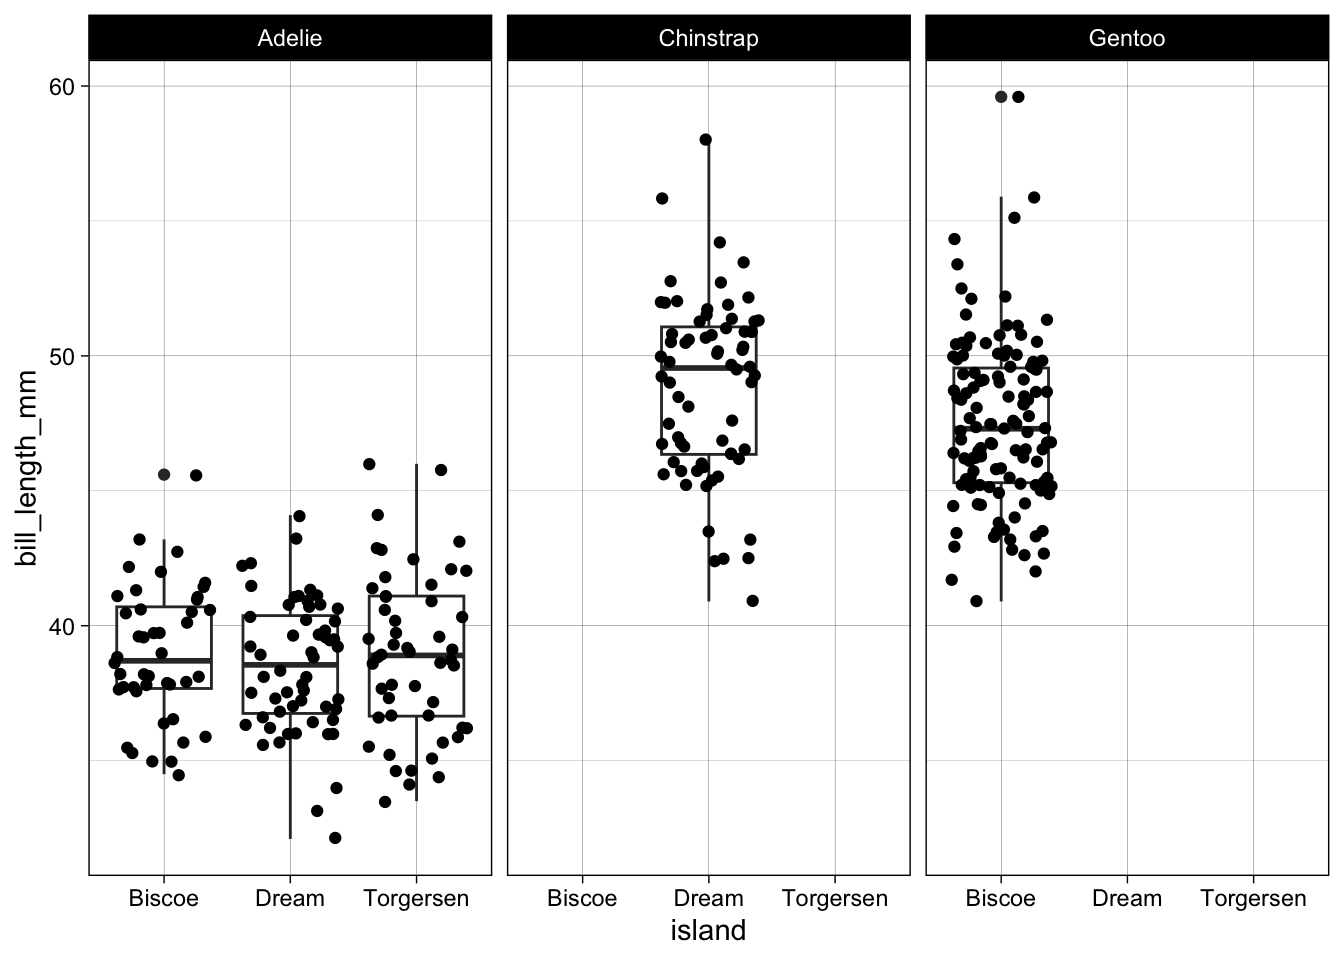
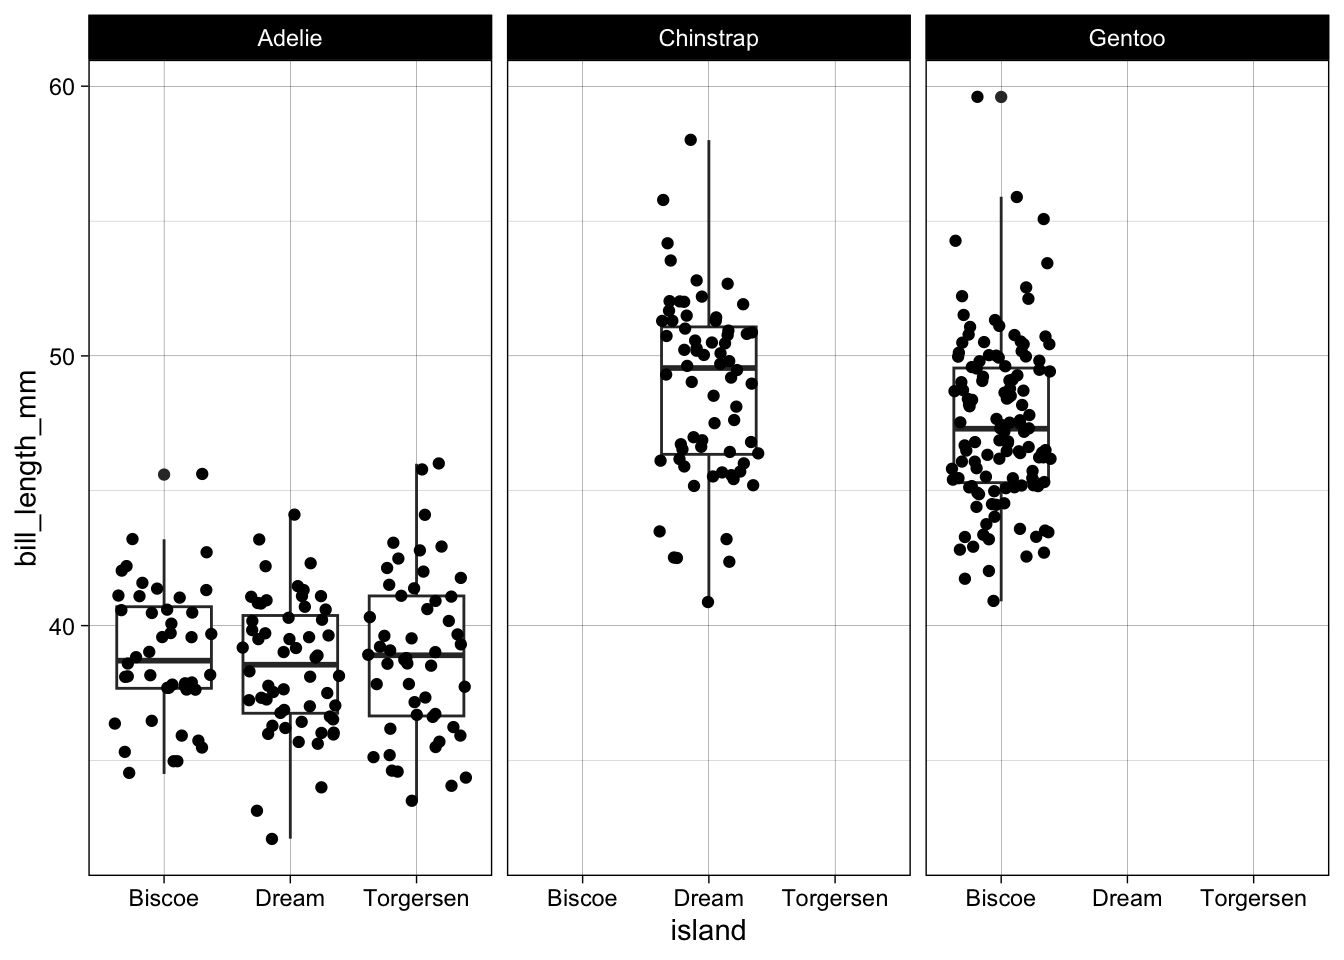
Change to PP.qmd

diff --git a/docs/PP.html b/docs/PP.html
@@ -128,7 +128,7 @@ pre > code.sourceCode > span > a:first-child::before { text-decoration: underlin
           <div class="collapse navbar-collapse" id="navbarCollapse">
             <ul class="navbar-nav navbar-nav-scroll me-auto">
   <li class="nav-item">
-    <a class="nav-link" href="./index.html"> 
+    <a class="nav-link active" href="./PP.html" aria-current="page"> 
 <span class="menu-text">Home</span></a>
   </li>  
   <li class="nav-item">

diff --git a/docs/index.html b/docs/index.html
@@ -93,7 +93,7 @@ ul.task-list li input[type="checkbox"] {
           <div class="collapse navbar-collapse" id="navbarCollapse">
             <ul class="navbar-nav navbar-nav-scroll me-auto">
   <li class="nav-item">
-    <a class="nav-link active" href="./index.html" aria-current="page"> 
+    <a class="nav-link" href="./PP.html"> 
 <span class="menu-text">Home</span></a>
   </li>  
   <li class="nav-item">

diff --git a/docs/about.html b/docs/about.html
@@ -93,7 +93,7 @@ ul.task-list li input[type="checkbox"] {
           <div class="collapse navbar-collapse" id="navbarCollapse">
             <ul class="navbar-nav navbar-nav-scroll me-auto">
   <li class="nav-item">
-    <a class="nav-link" href="./index.html"> 
+    <a class="nav-link" href="./PP.html"> 
 <span class="menu-text">Home</span></a>
   </li>  
   <li class="nav-item">
